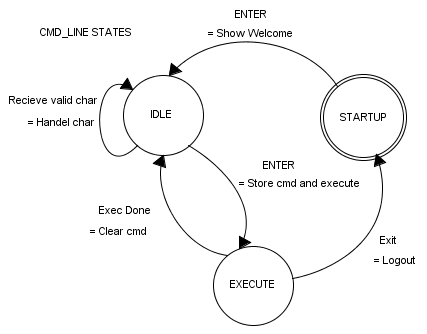
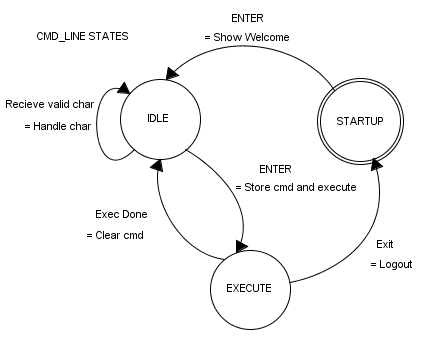
Flere rettelser i HW

diff --git a/section/hw_hardware.tex b/section/hw_hardware.tex
@@ -1,20 +1,20 @@
 \section{Hardware laget og konfiguration af periferienheder}
-I det kommende afsnit vil den valgte hardware konfiguration gennemgås. 
-Den dybere tekniske beskrivelse i forhold til produkt specifikke registre eller anden speciel arkitektur, vil ikke i detaljer beskrives, med mindre det er en vigtig del af argumentationen for valget.
+I det kommende afsnit vil den valgte hardware konfiguration blive gennemgået. 
+Den dybere tekniske beskrivelse i forhold til fx. produkt specifikke registre eller anden speciel arkitektur, vil ikke i detaljer blive beskrevet, medmindre det er en vigtig del af argumentationen for valget.
 Det komplette hardware modul findes i \emph{hardware.c}.
 
 \subsection{Valg af hardware profil}
 For at kunne håndtere de forskellige opsætninger af hardware i udviklingsforløbet af equalizerens software, er der lavet forskellige hardware opsætninger, således at det er nemt kan skiftes mellem dem.
 \\
 
-I \textit{global.h} filen, findes to compilere \textbf{\#define} direktiver til makro definitionerne \textbf{EMP} og \textbf{DAC}.
+I \textit{global.h} filen, findes to compilere \textbf{\#define} direktiver til makro definitionerne \texttt{EMP} og \texttt{DAC}.
 Sammenhængen mellem profilerne ses i figur \ref{fig:hardware_profiler}. 
-Således kan softwaren testes på EMP printet\footnote{Komponenterne til mikrofonindgang og hovedtelefonudgang skal være monteret}, ved at vælge \textbf{EMP} profilen.
-Fravælges \textbf{EMP} profilen, skifter softwaren over til at bruge projekt printet.
+Softwaren kan således testes på EMP printet\footnote{Komponenterne til mikrofonindgang og hovedtelefonudgang skal være monteret \cite{emp-diagram}.}, ved at vælge \texttt{EMP} profilen.
+Fravælges \texttt{EMP} profilen, skifter softwaren over til at bruge projekt printet.
 Her kan der vælges imellem DAC eller PWM som udgangssignal.  
 Den tilhørende pin-konfiguration for de valgte hardware profiler kan ses i bilag \ref{bilag:pinmap}.
 
-\subsection{CPU clock frekvens}
+\subsection{CPU'ens clock frekvens}
 \begin{wrapfigure}[20]{r}{5cm}
 	\centering
 	\includegraphics[width=4.5cm]{billeder/hardware_profiles.png}
@@ -22,25 +22,26 @@ Den tilhørende pin-konfiguration for de valgte hardware profiler kan ses i bila
 	\label{fig:hardware_profiler}
 \end{wrapfigure}
 For at kunne opnå så mange beregninger som muligt i sekundet, opsættes MCU'en til den maksimale clock frekvens.
-Den valgte MCU (TM4C123GH6PM) er en $80\si{\mega\hertz}$ mikrokontroller, og den ønskede clock frekvens sættes i funktionen \texttt{set\_80Mhz\_clock()} i hardwaremodulet \textit{hardware.c} til $F_{CPU} = 80\si{\mega\hertz}$.\\
+Den valgte MCU (TM4C123GH6PM) er en $80\si{\mega\hertz}$ mikrokontroller, og den ønskede clock frekvens sættes i funktionen \texttt{set\_80Mhz\_clock();} i hardwaremodulet \textit{hardware.c} til $F_{CPU} = 80\si{\mega\hertz}$.\\
 Ved denne frekvens og den valgte samplefrekvens $F_s$, kan et mål for antallet af CPU cycles imellem hver sample findes.
 \begin{align}
 N_{CPU cycles} = \frac{F_{CPU}}{F_s}  =  \frac{80\si{\mega\hertz}}{44,1\si{\kilo\hertz}}  = 1814,06 \si{\cycles}
 \end{align}
 
 \subsection{ADC}
-Til sampling af audiosignalet anvendes en analog til digital konverter (ADC). 
-De tre vigtigste faktorer der skal findes frem til er - hvornår der bliver samplet, hvor længe det varer før værdien er tilgængelig og hvor nøjagtig den den samplede værdi er.
-ADC'en omsætter det analoge lydsignal til en digital repræsentation, i dette tilfælde med en 12 bits opløsning.
-Opløsningen på det indgående signal kan bestemmes til $V_{LSb} = (V_{ref+} - V_{ref-} ) / 4096 $, hvor $V_{ref+}$ og $V_{ref-}$ er henholdsvis den positive og negative referencespænding.
+Til sampling af lydsignalet anvendes en analog til digital konverter (ADC). 
+De tre vigtigste faktorer der skal findes frem til er - hvornår der bliver samplet, hvor længe det varer før værdien er tilgængelig og hvor nøjagtig den den samplede værdi er.\\
+
+ADC'en omsætter det analoge lydsignal til en digital repræsentation, i dette tilfælde med en 12 bits opløsning\footnote{Stadard ADC opløsning på \textit{M4C123GH6PM} MCU'en \cite[s. 797]{tm4c123gh6pm}}.\\
+Opløsningen på det indgående lydsignal kan bestemmes til $V_{LSb} = (V_{ref+} - V_{ref-} ) / 4096 $, hvor $V_{ref+}$ og $V_{ref-}$ er henholdsvis den positive og negative referencespænding.
 I den konkrete løsning, forsynes MCU'en med en single-supply på $V_{DD} = 3,3\si{\volt}$.
 Derved bliver den mindste målbare spændingsændring på indgangen,
 \begin{align}
 V_{LSb} = \frac{V_{DD}}{4096} = 8,06\si{\milli\volt\per\LSb}
 \end{align}
 
-For et komplet billede af det samplede signal, fremgår det i databladet \cite[afsnit 24.14 s. 1383]{tm4c123gh6pm} for MCU'en, at
-den samlede, ikke korrigerede fejl er $E_T = \pm 30\si{\LSb}$ som maksimum.
+For et komplet billede af nøjagtigheden på det samplede signal, fremgår det i databladet \cite[afsnit 24.14 s. 1383]{tm4c123gh6pm} for MCU'en, at
+den samlede, ikke korrigerede maksimale fejl er $E_T = \pm 30\si{\LSb}$.
 
 Den samplede digitale spænding $V_{d}$, kan således angives med en usikkerhed i forhold til den analoge spænding $V_{a}$ på,
 \begin{align}
@@ -48,20 +49,20 @@ V_{d} = V_{a} \pm \V_{LSb} \cdot E_T = V_{a} \pm   8,06\si{\milli\volt\per\LSb} 
 \end{align} 
 
 Den i projektet anvendte MCU tilbyder en lang række funktionaliteter for ADC periferienheden.
-Det er dog kun nødvendigt at fortage én sample for hver lyd kanal\footnote{Når software anvedner EMP profil bruges der kun én ADC kanal}, én gang for hver sampleperiode $T_s$.
-Derfor anvendes en \textbf{Once Mode}, der bliver styret af interrupt service rutinen \textit{sample\_handler()}. Denne ISR og timingen af ADC'en vil blive uddybet i afsnittet om interrupt (se side \pageref{subsec:interrupt}).
+Det er dog kun nødvendigt at fortage én lydsampling for hver lyd kanal\footnote{Når software anvender EMP profil bruges der kun én ADC kanal}, én gang for hver sampleperiode $T_s$.
+Derfor anvendes en \textbf{Once Mode}\cite[afsnit 13.3.7.2, s. 812]{tm4c123gh6pm}, der bliver styret af interrupt service rutinen \texttt{sample\_handler();}. Denne ISR og timingen af ADC'en vil blive uddybet i afsnittet om interrupt (se side \pageref{subsec:interrupt}).\\
 
-Samplingen af ADC'ens indgangssignalet påbegyndes manuelt af equalizerens software.
-Samplingen sker ved successiv approksimation (SAR) i ADC'en og ud fra databladet er sampletiden angivet som $T_C = 2$ ADC clock cycles. 
-I implementeringen, er ADC clocken sat til at køre $16 \si{\mega\hertz}$ og giver derved en samplingstid på $T_C = \num{1,25E-7}\si{\second}$.  
+Samplingen ved ADC'en på lydsignalet påbegyndes manuelt af equalizerens software.
+ADC'en bruger successiv approksimation (SAR) og ud fra databladet er sampletiden angivet som $T_C = 2$ ADC clock cycles. 
+Implementeringen af ADC har en clock-frekvens sat til $16 \si{\mega\hertz}$ som giver en samplingstid på $T_C = \num{1,25E-7}\si{\second}$.  
 
 \subsection{PWM - Pulse Width Modulation}
 I begyndelsen af udviklingen, var der overvejelser om hvordan lydsignalet skulle genskabes efter den digitale behandling var foregået.
-Ud fra de indbyggede periferienheder, som den valgte MCU stiller til rådighed, faldt valget på et PWM generet lyd signal.
-Det viste sig dog under udviklingen af de analoge filtre, som er gennemgået i foregående kapitel, at opnåelsen af en tilfredsstillende lydkvalitet samt at kunne eftervise equalizerens funktionalitet, ikke kunne opnås med et PWM generet udgangssignal. 
-\\
+Ud fra de indbyggede periferienheder, som den valgte MCU stiller til rådighed, faldt valget på et PWM generet lydsignal.
+Det viste sig dog under udviklingen af de analoge filtre ( som blev gennemgået i foregående kapitel ), at en tilfredsstillende lydkvalitet samt at kunne eftervise equalizerens funktionalitet, ikke kunne opnås med et PWM generet lydsignal. \\
+Der vil dog stadig laves en gennemgang af PWM'ens opsætning og funktionalitet i hardware delen, da denne bruges i \texttt{EMP} profilen.\\
 
-Som udgangspunkt er det anvendte EMP print udstyret med en mikrofonindgang og en hovedtelefonudgang \footnote{Henholdsvis \textbf{Microphone Preamp} og \textbf{Headphone Output} i diagram \cite{emp-diagram}}, som fra designerens udgangspunkt er forbundet med henholdsvis en af MCU'ens analoge indgange og en GPIO pin hvor PWM er mulig.
+Som udgangspunkt er det anvendte EMP print udstyret med en mikrofonindgang og en hovedtelefonudgang \footnote{Henholdsvis \textbf{Microphone Preamp} og \textbf{Headphone Output} i diagram \cite{emp-diagram}}. Disse er fra designerens side, blevet forbundet med henholdsvis en af MCU'ens analoge indgange og en GPIO pin hvor PWM er mulig\footnote{Forbindelserne kan ses i \cite{emp-diagram} og i pinmapping tabellen i bilag \ref{bilag:pinmap}}.
 
 \begin{figure}[h!]
 	\centering
@@ -70,25 +71,28 @@ Som udgangspunkt er det anvendte EMP print udstyret med en mikrofonindgang og en
 	\label{fig:pwm}
 \end{figure}
 
-Der vælges at bruge PWM i fase korrekte modus, som kan ses et eksempel af i figur \ref{fig:pwm}.
-I fase korrekt modus skal PWM tælleren starte på 0, og tælle både op til \textbf{LOAD} værdien og ned igen, inden næste PWM cyklus begyndes.
-Ved en PWM frekvens, $F_{PWM}$, der er den samme som samplingsfrekvensen $F_s$, vil $\textbf{LOAD} = N_{CPU cycles} / 2$.
+Der vælges at bruge PWM i fase korrekte modus, hvor et eksempel ses i figur \ref{fig:pwm}.
+I fasekorrekt modus skal PWM tælleren starte på 0 og tælle både op til \textbf{LOAD} værdien og ned igen, inden næste PWM cyklus påbegyndes.
+Ved en PWM frekvens $F_{PWM}$, der er den samme som samplingsfrekvensen $F_s$, vil $\textbf{LOAD} = N_{CPU cycles} / 2$.
 
-Da udgangssignalet kan variere mellem $ 0 \si{\volt}$ og $V_{DD} = 3,3 \si{\volt}$, hvor middelværdien er $V_{DD}/2 = 1,65 \si{\volt}$, kan opløsningen på udgangssignalet beregnes til,
+Da udgangssignalet kan variere mellem $ 0 \si{\volt}$ og $V_{DD} = 3,3 \si{\volt}$, hvor middelværdien er $V_{DD}/2 = 1,65 \si{\volt}$, kan opløsningen på udgangssignalet beregnes til.
 
 \begin{align}
 \Delta V_{PWM} = \frac{V_{DD} \cdot 2K}{N_{CPU cycles}} = \frac{3,3\si{\volt} \cdot 2}{1814} =  3,638\si{\milli\volt}
 \end{align}
 
-for et vilkårligt forhold, ($K$), mellem samplefrekvens og PWM frekvens. 
-Da der ønskes PWM frekvens der er 10 gange større end samplingsfrekvensen ($K=10$) ses det, at opløsningen på udgangen ligeledes falder med en faktor 10 til $\Delta V_{PWM} = 36,38\si{\milli\volt}$.\\
+Her angiver $K$ et vilkårligt forhold mellem samplingsfrekvens og PWM frekvens.\\
 
-Opsætning af PWM findes i \texttt{init\_PWM( INT16U cycles )} i hardware modulet \textit{hardware.c}. Funktionen tager $N_{CPU cycles}$ som parameter, således at hardwaren kan opsættes til andre samplingsfrekvenser end $F_s = 44,1\si{\kilo\hertz}$.
+Da der ønskes en PWM frekvens der er 10 gange større end samplingsfrekvensen $[K=10]$ ses det, at opløsningen på udgangen ligeledes falder med en faktor 10 til $\Delta V_{PWM} = 36,38\si{\milli\volt}$.\\
+
+Det er således ikke hensigtsmæssigt at anvende et PWM genereret lydsignal på udgangen.
+Derfor blev der sidste i udviklingen skiftet til en DAC som der kommes nærmere ind på i næste afsnit.\\
+
+Opsætning af PWM findes i \texttt{init\_PWM( INT16U cycles );} i hardware modulet \textit{hardware.c}. 
+Funktionen tager $N_{CPU cycles}$ som parameter, således at hardwaren kan opsættes til andre samplingsfrekvenser end $F_s = 44,1\si{\kilo\hertz}$.
 Afhængig af den valgte hardware profil, sættes pin konfigurationen ud fra tabellen i bilag \ref{bilag:pinmap}.  
 
 \FloatBlock
-
-\jj{Mangler overgang til DAC}
 
 \subsection{DAC}
 Til at genere udgangssignalet fra MCU'en vælges en ekstern DAC kreds, da MCU'en ikke råder over denne funktionalitet.

diff --git a/section/hw_equalizer.tex b/section/hw_equalizer.tex
@@ -1,6 +1,6 @@
 \section{Equalizer modul og profiler}
 
-Equalizermodulet stiller en række funktionaliteter til rådighed således at det er nemt at oprette nye profiler med et variabelt antal bånd.
+Equalizermodulet stiller en række funktionaliteter til rådighed således, at det er nemt at oprette nye profiler med et variabelt antal bånd.
 Til hver profil er der knyttet en række data og et antal equalizer bånd.
 I figur \ref{fig:eq-profile-db} vises en simplificeret model af den benyttede datastruktur.
 Det er muligt at have ét til flere bånd for hver profil.
@@ -12,8 +12,8 @@ Det er muligt at have ét til flere bånd for hver profil.
 	\label{fig:eq-profile-db}
 \end{figure}
 
-Initialisering af equelizermodulet allokerer dynamisk hukommelse der er nødvendigt til at gemme profil informationerne.
-Profilerne bliver lagt i hukommelsen som linked lister, som det kan ses i figur \ref{fig:eq-profile-linked}.
+Initialisering af equelizermodulet allokerer dynamisk den hukommelse der er nødvendigt til at gemme profilinformationerne.
+Profilerne bliver lageret i hukommelsen som linked lister, hvor en model kan ses i figur \ref{fig:eq-profile-linked}.
 
 \begin{figure}[h!]
 	\centering
@@ -22,9 +22,9 @@ Profilerne bliver lagt i hukommelsen som linked lister, som det kan ses i figur 
 	\label{fig:eq-profile-linked}
 \end{figure}
 
-I modulet \textit{equalizer.c} findes et udvalg af funktioner til at håndtere og oprette profiler.
-Et lille udsnit af \texttt{equalizer\_profiles\_setup();} ses i figur \ref{lst:eq_profil_setup}, for at give et kort indblik i dens funktionalitet.
-Når profilerne er lagt op i hukommelsen, bliver profil med \texttt{id=0} valgt som standard, lyd ind- og udgange bliver aktiveret.
+I modulet \textit{equalizer.c} findes funktionerne til at håndtere og oprette profiler.
+For at give et kort indblik i funktionaliteten, ses et lille udsnit af \texttt{equalizer\_profiles\_setup();}, der udføres under opstart af equalizeren ses i figur \ref{lst:eq_profil_setup}. 
+Når profilerne er lagt op i hukommelsen, bliver profilen med \texttt{id=0} valgt som standard, lyd ind- og udgange bliver derefter aktiveret.
 Equalizeren er som standard deaktiveret.
 
 \begin{figure}[h!]
@@ -68,9 +68,8 @@ equalizer_create_spectrum( profile );			// Store LCD stectrum profile
 \label{lst:eq_profil_setup}
 \end{figure}
 
-Det er ligeledes i equalizermodulet at den profil der vælges skal bruges som aktiv profil og at det er muligt at vælge om equalizer funktionaliteten skal være aktiv eller inaktiv.\\
-
-Modulet findes i kodebasen \textit{equalizer.c}
+Det er ligeledes i equalizermodulet, at funktionalitet til profil valg findes.
+Modulet finder man i kodebasen \textit{equalizer.c}
 
 
   

diff --git a/section/hw_shell.tex b/section/hw_shell.tex
@@ -1,7 +1,7 @@
 \section{Shell}
 Til at kunne styre equalizeren, er der blevet implementeret en shell, der kan tilgås over UART'en\footnote{Mere uddybende information til opsætning af seriel kommunikation til equalizeren findes i afsnit om UART på side \pageref{subsec:uart}}.
 Fortolkningen af indkommende ASCII tegn over UART'en behandles ud fra den i figur \ref{fig:shell_task} beskrevne model.
-\Kenneth{Stavefejl i state diagram}
+
 \begin{figure}[h!]
 	\centering
 	\includegraphics[width=.6\textwidth]{billeder/cmd_states.png}
@@ -9,8 +9,8 @@ Fortolkningen af indkommende ASCII tegn over UART'en behandles ud fra den i figu
 	\label{fig:shell_task}
 \end{figure}
 
-Shell'en aktiveres efter opnået forbindelse, ved at sende et \textbf{0x0D} \textit{(enter/return)}, hvorefter velkomstskærmen vises.
-Der er et mindre udvalg af kommandoer tilgængeligt for brugeren til at styre equalizeren - se tabel \ref{tab:shell_cmd} 
+Shell'en aktiveres efter opnået forbindelse, ved at sende et \texttt{0x0D} \textit{(enter/return)}, herefter vises velkomstskærmen.
+Der er et udvalg af kommandoer tilgængeligt så brugeren kan styre equalizeren - se tabel \ref{tab:shell_cmd} .
 
 \begin{table}[h!]
 	\caption{Kommando liste i EQ-ONE shell}

diff --git a/section/ord.tex b/section/ord.tex
@@ -9,12 +9,14 @@
 			\textbf{Ord}      & \textbf{Beskrivelse}   \\ 
 			\midrule
 			ADC			& Analog digital converter (Eng.)\\
+			ANSI		& American National Standards Institute (Eng.)\\
 			API			& Grænseflade på en computer der tillader én softwarekomponent at kommunikere med en anden\tnote{a}\\
 			CLI			& Commandline interface (Eng.)\\
+			DAC			& Digital analog converter (Eng.)\\
 			Equalizer 	& Elektronisk apparat eller komponent som i forbindelse med forstærkning af lyd regulerer forholdet mellem de forskellige frekvensers styrke for at opnå en bedre klang \tnote{a} \\
 			Latency		& (Eng.) Tidsforsinkelsen imellem stimulans og respons.\\ 
 			LCD			& Liquid crystal display (Eng.) \\
-			MCU       	& Micro Controller Unit (Eng.). Microkontroller eller mikroprocessor. \\
+			MCU       	& Micro Controller Unit (Eng.). Microcontroller eller mikroprocessor. \\
 			Monotonic 	& (Eng.) En evig stribe af små gentagelse.  \tnote{a}\\
 			Periferienhed & Selvkørende hardwaremodul i mikrocontrollerens arkitektur.\\
 			Preemptive	& (Eng.) Afbrydelse af task fra fx. en scheduler.\\

diff --git a/section/hw_dis_kon.tex b/section/hw_dis_kon.tex
@@ -10,6 +10,13 @@ Hvis projektet, som produkt skulle videreudvikles, ville de næste trin af udvik
 	\item Indbygge fx I2C kommunikation, således at systemet kan bruges som modul i andre og større lydsystemer.
 \end{itemize} 
 
+andre punkter
+\begin{itemize}
+	\item Latency ?
+	\item Nøjagtighed
+	\item 
+\end{itemize}
+
 \subsection{Delkonklusion}
 Som helhed blev den ønskede implementering opnået.
 Systemet er funktionelt og kan inden for en rimelig fleksibilitet håndtere den korrekte signalbehandling.
